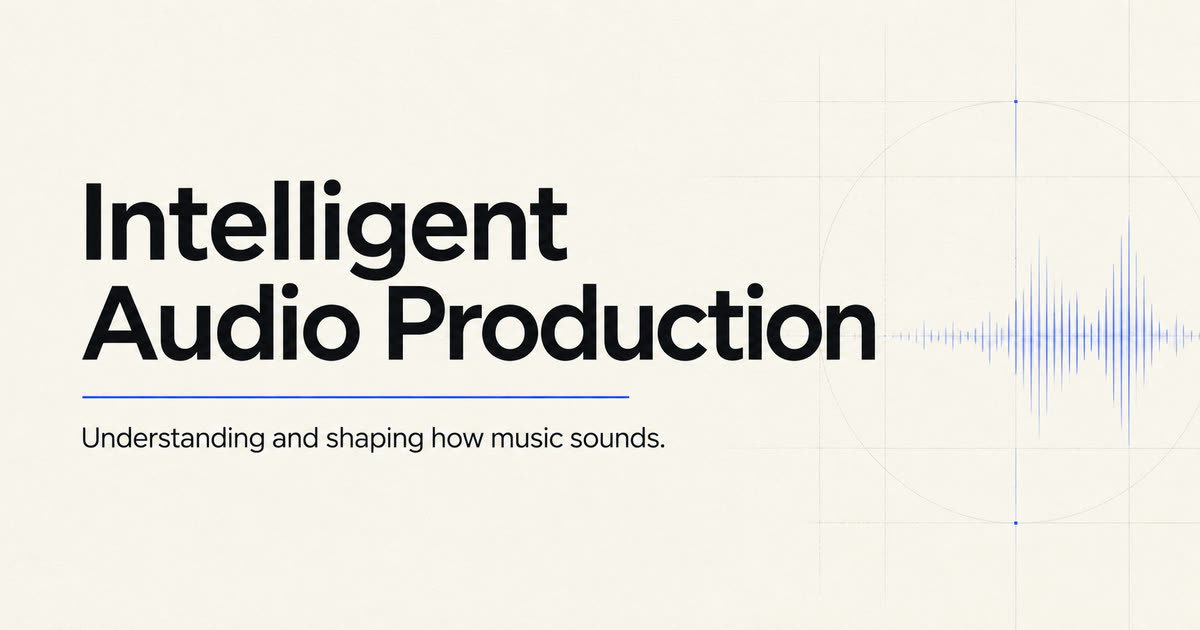
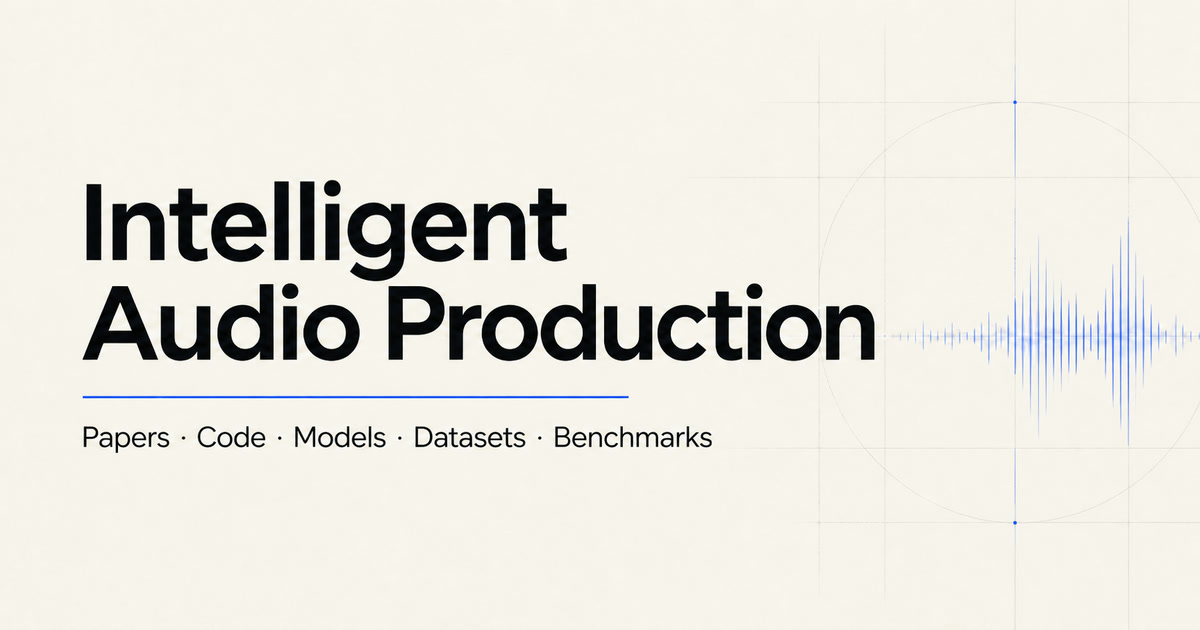
Improve repository discovery and contribution paths

diff --git a/README.md b/README.md
@@ -1,14 +1,22 @@
 # Intelligent Audio Production Resources
 
-A bilingual, research-oriented index of open projects and papers for intelligent audio effects and music production.
+A curated, bilingual research index covering audio effects, differentiable processing, representation learning, automatic mixing, mastering, and evaluation.
 
-- **Website:** https://meteroad.github.io/intelligent-audio-production-resources/
-- **Maintainer:** [Xinlu Liu](https://meteroad.github.io/)
-- **Current index:** 38 verified projects, 69 papers, and 2 reference resources
+[Browse the index](https://meteroad.github.io/intelligent-audio-production-resources/) · [Submit a resource](https://github.com/meteroad/intelligent-audio-production-resources/issues/new/choose) · [Report an issue](https://github.com/meteroad/intelligent-audio-production-resources/issues/new?template=correction.yml)
 
-## Scope
+**69 papers · 38 verified projects · 2 reference collections**
 
-The index currently covers:
+[![Intelligent Audio Production: papers, code, models, datasets, and benchmarks](assets/social-preview.jpg)](https://meteroad.github.io/intelligent-audio-production-resources/)
+
+## What You Can Find
+
+| Collection | Included information |
+| --- | --- |
+| Papers | Formal venues, paper and DOI links, concise English and Chinese summaries, and associated open resources |
+| Projects | Source availability, checkpoints, licenses, task areas, and last-verification dates |
+| Reference resources | Field bibliographies and research guides kept separate from runnable implementations |
+
+The index is organized by production task rather than publication year. It currently covers:
 
 - audio effects modeling, estimation, control, transfer, and removal;
 - differentiable DSP, effect chains, and processing graphs;
@@ -19,19 +27,33 @@ The index currently covers:
 
 Spatial audio is listed as a future extension rather than mixed into the current catalogue.
 
-## Use the index
+## Curation Principles
 
-Open the [website](https://meteroad.github.io/intelligent-audio-production-resources/) to browse by field, search projects and papers, and view verified paper, code, model, and DOI links. The interface is available in English and Chinese.
+- Paper titles, authors, dates, and links are anchored to primary publication sources where available.
+- Formal venues are shown only when publication evidence can be verified.
+- Project source, checkpoint, dataset, and license links are recorded separately rather than treating every public page as open source.
+- The weekly paper scout proposes reviewable changes; AI-screened candidates are never published directly.
+- Every public entry remains open to correction through a structured issue or pull request.
 
 ## Contribute
 
-Issues and pull requests are welcome for:
+The quickest route is to open a structured request:
 
-- missing papers, repositories, checkpoints, or datasets;
-- incorrect venues, links, licenses, or task labels;
-- concise corrections to English or Chinese summaries.
+- [Add a paper](https://github.com/meteroad/intelligent-audio-production-resources/issues/new?template=paper.yml)
+- [Add an open-source project](https://github.com/meteroad/intelligent-audio-production-resources/issues/new?template=project.yml)
+- [Correct metadata or report a broken link](https://github.com/meteroad/intelligent-audio-production-resources/issues/new?template=correction.yml)
 
-Please include a primary paper or project URL and enough evidence to verify the requested change. New records must fit the production-oriented scope and pass `automation/validate_data.py`.
+Please include a primary paper or project URL and enough evidence to verify the requested change. See [CONTRIBUTING.md](CONTRIBUTING.md) before editing catalogue data directly.
+
+## Data
+
+The catalogue is available as version-controlled JSON:
+
+- [`data/papers.json`](data/papers.json)
+- [`data/projects.json`](data/projects.json)
+- [`data/resources.json`](data/resources.json)
+
+These files drive the public website and can also be used for research tooling or downstream analysis under the repository license.
 
 ## Automation
 
@@ -39,7 +61,7 @@ The weekly paper scout searches arXiv, screens candidates with a configured lang
 
 See [automation/README.md](automation/README.md) for configuration and review rules.
 
-## Local preview
+## Local Preview
 
 ```bash
 python3 -m http.server 8000

diff --git a/CONTRIBUTING.md b/CONTRIBUTING.md
@@ -1,0 +1,34 @@
+# Contributing
+
+Contributions that improve the accuracy, coverage, or usability of the index are welcome.
+
+## What Belongs in the Index
+
+A submission should make a direct contribution to intelligent audio production, including audio effects, differentiable processing, production representations, mixing, mastering, or task-specific evaluation.
+
+Generic speech enhancement, audio generation, source separation, room acoustics, and spatial localization are out of scope unless the work makes a direct production or audio-effects contribution.
+
+## Submit Through an Issue
+
+Use one of the structured forms for the fastest review:
+
+- [Add a paper](https://github.com/meteroad/intelligent-audio-production-resources/issues/new?template=paper.yml)
+- [Add an open-source project](https://github.com/meteroad/intelligent-audio-production-resources/issues/new?template=project.yml)
+- [Correct an entry](https://github.com/meteroad/intelligent-audio-production-resources/issues/new?template=correction.yml)
+
+Include primary evidence whenever possible: a publisher or conference page, DOI, arXiv record, official project page, source repository, model card, dataset page, or license file.
+
+## Submit a Pull Request
+
+Direct catalogue changes should preserve the existing JSON schema and keep English and Chinese summaries concise and factual. Do not infer a formal venue from a submission statement or label a project open source without checking its license.
+
+Before opening a pull request, run:
+
+```bash
+python3 automation/validate_data.py
+python3 -m unittest discover -s automation/tests -v
+node --check app.js
+git diff --check
+```
+
+The maintainers may adjust wording, taxonomy, identifiers, or links so records remain consistent across the index.

diff --git a/.github/pull_request_template.md b/.github/pull_request_template.md
@@ -1,0 +1,17 @@
+## Summary
+
+Describe the catalogue, website, or automation change.
+
+## Evidence
+
+List the primary paper, venue, repository, model, dataset, or license URLs used to verify the change.
+
+## Checklist
+
+- [ ] I searched for an existing record before adding a new one.
+- [ ] Formal venues and open-source claims are supported by evidence.
+- [ ] English and Chinese summaries are concise and factual where applicable.
+- [ ] `python3 automation/validate_data.py` passes.
+- [ ] `python3 -m unittest discover -s automation/tests -v` passes.
+- [ ] `node --check app.js` and `git diff --check` pass.
+- [ ] No API keys, credentials, private data, or copyrighted full-text papers are included.
